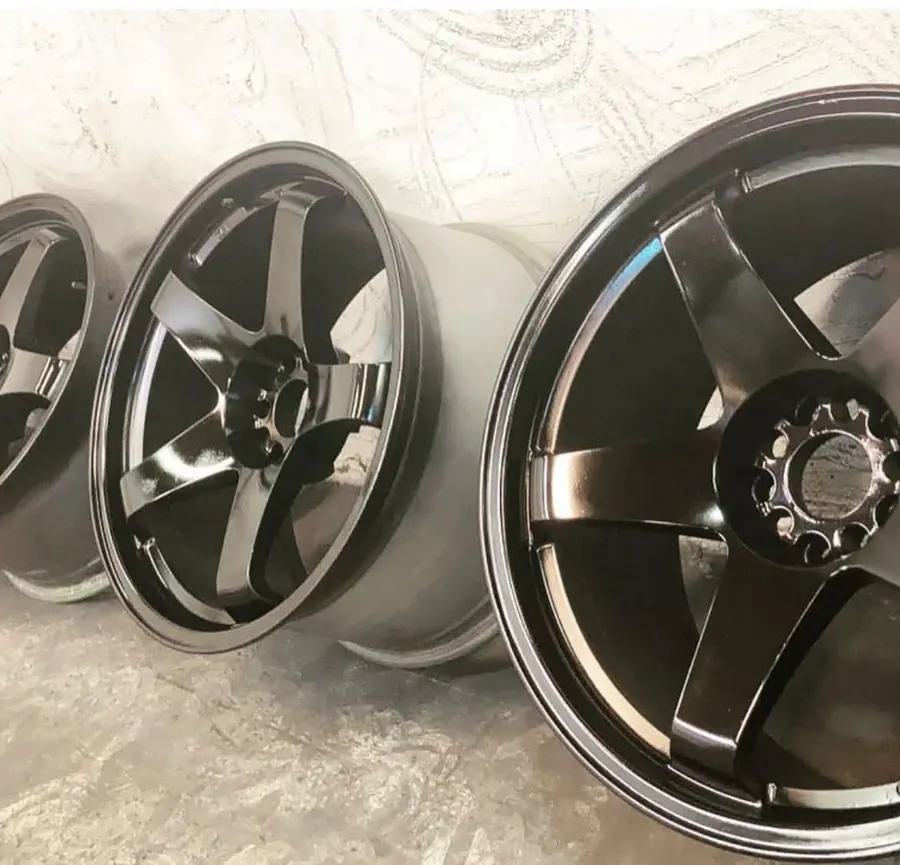
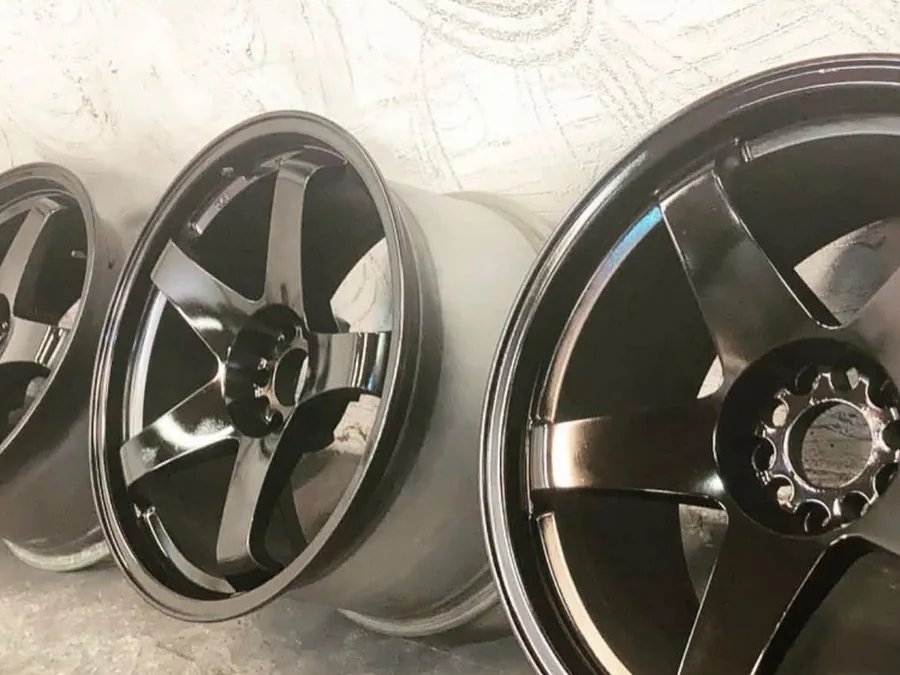
Round 2: centred nav, Citroen hero, equal gallery cards, polish

diff --git a/public/index.html b/public/index.html
@@ -16,7 +16,7 @@
 <body>
 <a class="skip" href="#main">Skip to content</a>
 <header class="site-header">
-  <div class="wrap nav">
+  <div class="wrap wide nav">
     <a class="brand" href="#top" aria-label="Autochrome home"><img class="logo" src="/img/logo-96.webp" srcset="/img/logo-96.webp 1x, /img/logo-192.webp 2x" width="44" height="44" alt=""><span class="brand-text">Autochrome</span></a>
     <nav aria-label="Main">
       <ul>
@@ -43,25 +43,24 @@
       </div>
     </div>
     <figure class="hero-compare reveal">
-      <div class="compare" style="--pos:50%;aspect-ratio:987/1645">
-        <img class="compare-after" src="/img/bmw-m-spoke-after-720.webp" srcset="/img/bmw-m-spoke-after-480.webp 480w, /img/bmw-m-spoke-after-720.webp 720w, /img/bmw-m-spoke-after-987.webp 987w" sizes="(max-width: 899px) 92vw, 440px" width="987" height="1645" fetchpriority="high" alt="The same BMW M-spoke wheel after refurbishment, rim repaired and refinished in silver">
-        <img class="compare-before" src="/img/bmw-m-spoke-before-720.webp" srcset="/img/bmw-m-spoke-before-480.webp 480w, /img/bmw-m-spoke-before-720.webp 720w, /img/bmw-m-spoke-before-987.webp 987w" sizes="(max-width: 899px) 92vw, 440px" width="987" height="1645" alt="BMW M-spoke alloy wheel before refurbishment, with kerb damage around the rim">
+      <div class="compare" style="--pos:50%">
+        <img class="compare-after" src="/img/citroen-after-45-720.webp" srcset="/img/citroen-after-45-480.webp 480w, /img/citroen-after-45-720.webp 720w, /img/citroen-after-45-987.webp 987w" sizes="(max-width: 899px) 92vw, 440px" width="987" height="1234"  fetchpriority="high" alt="The same Citroën wheel after a colour change to gloss black">
+        <img class="compare-before" src="/img/citroen-before-45-720.webp" srcset="/img/citroen-before-45-480.webp 480w, /img/citroen-before-45-720.webp 720w, /img/citroen-before-45-987.webp 987w" sizes="(max-width: 899px) 92vw, 440px" width="987" height="1234"  alt="Citroën alloy wheel before, in worn silver with brake dust">
         <span class="tag tag-before" aria-hidden="true">Before</span><span class="tag tag-after" aria-hidden="true">After</span>
         <span class="handle" aria-hidden="true"><span class="knob"></span></span>
-        <input class="compare-range" type="range" min="0" max="100" value="50" step="1" aria-label="Before and after: BMW M-spoke wheel. Move to compare.">
+        <input class="compare-range" type="range" min="0" max="100" value="50" step="1" aria-label="Before and after: Citroën wheel, silver to gloss black. Move to compare.">
       </div>
-      <figcaption>BMW M-spoke · kerb damage refurbished</figcaption>
+      <figcaption>Citroën · silver to gloss black</figcaption>
     </figure>
   </div>
 </section>
 
 <section class="trust" aria-label="Customer rating">
   <div class="wrap trust-inner">
-    <p class="trust-score"><strong>5.0</strong> <span class="stars" aria-hidden="true">★★★★★</span><span class="sr">5.0 out of 5 stars</span></p>
-    <span class="trust-sep" aria-hidden="true"></span>
-    <p><strong>44</strong> Google Reviews</p>
-    <span class="trust-sep" aria-hidden="true"></span>
-    <p>Facebook: <strong>98%</strong> recommend (59 reviews)</p>
+    <p class="trust-item"><strong>5.0</strong><span class="stars" aria-hidden="true">★★★★★</span><span class="sr">5.0 out of 5 stars</span><small>Google rating</small></p>
+    <p class="trust-item"><strong>44</strong><small>Google reviews</small></p>
+    <p class="trust-item"><strong>98%</strong><small>Recommend on Facebook</small></p>
+    <p class="trust-item"><strong>59</strong><small>Facebook reviews</small></p>
   </div>
 </section>
 
@@ -74,33 +73,42 @@
     </header>
     <div class="gallery">
       <figure class="card reveal">
-        <div class="compare" style="--pos:50%;aspect-ratio:987/1645">
-        <img class="compare-after" src="/img/citroen-after-720.webp" srcset="/img/citroen-after-480.webp 480w, /img/citroen-after-720.webp 720w, /img/citroen-after-987.webp 987w" sizes="(max-width: 699px) 92vw, 420px" width="987" height="1645" loading="lazy" decoding="async" alt="The same Citroën wheel after a colour change to gloss black">
-        <img class="compare-before" src="/img/citroen-before-720.webp" srcset="/img/citroen-before-480.webp 480w, /img/citroen-before-720.webp 720w, /img/citroen-before-987.webp 987w" sizes="(max-width: 699px) 92vw, 420px" width="987" height="1645" loading="lazy" decoding="async" alt="Citroën alloy wheel before, in worn silver with brake dust">
+        <div class="compare" style="--pos:50%">
+        <img class="compare-after" src="/img/bmw-m-spoke-after-45-720.webp" srcset="/img/bmw-m-spoke-after-45-480.webp 480w, /img/bmw-m-spoke-after-45-720.webp 720w, /img/bmw-m-spoke-after-45-987.webp 987w" sizes="(max-width: 699px) 92vw, 380px" width="987" height="1234" loading="lazy" decoding="async"  alt="The same BMW M-spoke wheel after refurbishment, rim repaired and refinished in silver">
+        <img class="compare-before" src="/img/bmw-m-spoke-before-45-720.webp" srcset="/img/bmw-m-spoke-before-45-480.webp 480w, /img/bmw-m-spoke-before-45-720.webp 720w, /img/bmw-m-spoke-before-45-987.webp 987w" sizes="(max-width: 699px) 92vw, 380px" width="987" height="1234" loading="lazy" decoding="async" alt="BMW M-spoke alloy wheel before refurbishment, with kerb damage around the rim">
         <span class="tag tag-before" aria-hidden="true">Before</span><span class="tag tag-after" aria-hidden="true">After</span>
         <span class="handle" aria-hidden="true"><span class="knob"></span></span>
-        <input class="compare-range" type="range" min="0" max="100" value="50" step="1" aria-label="Before and after: Citroën wheel, silver to gloss black">
+        <input class="compare-range" type="range" min="0" max="100" value="50" step="1" aria-label="Before and after: BMW M-spoke wheel">
       </div>
-        <figcaption><strong>Citroën · silver to gloss black</strong></figcaption>
+        <figcaption><strong>BMW M-spoke · kerb damage refurbished</strong></figcaption>
       </figure>
-      <figure class="card card-sm reveal">
-        <div class="compare" style="--pos:50%;aspect-ratio:268/447">
-        <img class="compare-after" src="/img/nissan-after-268.webp" srcset="/img/nissan-after-268.webp 268w" sizes="(max-width: 699px) 92vw, 300px" width="268" height="447" loading="lazy" decoding="async" alt="The same Nissan wheel after refinishing in black">
-        <img class="compare-before" src="/img/nissan-before-268.webp" srcset="/img/nissan-before-268.webp 268w" sizes="(max-width: 699px) 92vw, 300px" width="268" height="447" loading="lazy" decoding="async" alt="Nissan diamond-cut style alloy wheel before, black with bright machined face">
+      <figure class="card reveal">
+        <div class="compare" style="--pos:50%">
+        <img class="compare-after" src="/img/nissan-after-45-536.webp" width="536" height="670" loading="lazy" decoding="async"  alt="The same Nissan wheel after refinishing in black">
+        <img class="compare-before" src="/img/nissan-before-45-536.webp" width="536" height="670" loading="lazy" decoding="async" alt="Nissan diamond-cut style alloy wheel before, black with bright machined face">
         <span class="tag tag-before" aria-hidden="true">Before</span><span class="tag tag-after" aria-hidden="true">After</span>
         <span class="handle" aria-hidden="true"><span class="knob"></span></span>
         <input class="compare-range" type="range" min="0" max="100" value="50" step="1" aria-label="Before and after: Nissan wheel, diamond-cut look to black">
       </div>
         <figcaption><strong>Nissan · diamond-cut look to black</strong></figcaption>
       </figure>
+      <figure class="card reveal">
+        <div class="compare" style="--pos:65%">
+        <img class="compare-after" src="/img/kerb-after-45-630.webp" width="630" height="788" loading="lazy" decoding="async"  alt="The same rim after kerb damage repair, refinished smooth">
+        <img class="compare-before" src="/img/kerb-before-45-630.webp" width="630" height="788" loading="lazy" decoding="async" alt="Close-up of a kerbed alloy wheel rim before repair, with scraped and chipped edges">
+        <span class="tag tag-before" aria-hidden="true">Before</span><span class="tag tag-after" aria-hidden="true">After</span>
+        <span class="handle" aria-hidden="true"><span class="knob"></span></span>
+        <input class="compare-range" type="range" min="0" max="100" value="65" step="1" aria-label="Before and after: kerb damage repair close-up">
+      </div>
+        <figcaption><strong>Kerb damage · rim repaired</strong></figcaption>
+      </figure>
     </div>
     <div class="recent reveal">
       <h3>More recent work</h3>
       <ul class="recent-grid">
-        <li><img src="/img/recent-gloss-black-565.webp" srcset="/img/recent-gloss-black-565.webp 565w, /img/recent-gloss-black-900.webp 900w" sizes="(max-width: 699px) 92vw, 380px" width="565" height="543" loading="lazy" decoding="async" alt="Set of deep-dish five-spoke wheels finished in gloss black"></li>
-        <li><img src="/img/recent-black-set-530.webp" width="530" height="247" loading="lazy" decoding="async" alt="Set of four multi-spoke wheels refinished in gloss black"></li>
-        <li><img src="/img/recent-citroen-red-565.webp" width="565" height="273" loading="lazy" decoding="async" alt="Red Citroën C3 back on its refinished gloss black wheels"></li>
-        <li><img src="/img/recent-bmw-estate-565.webp" width="565" height="267" loading="lazy" decoding="async" alt="Grey BMW estate on its refurbished silver wheels"></li>
+        <li><img src="/img/recent-gloss-black-600.webp" srcset="/img/recent-gloss-black-600.webp 600w, /img/recent-gloss-black-900.webp 900w" sizes="(max-width: 699px) 92vw, 380px" width="900" height="675" loading="lazy" decoding="async" alt="Set of deep-dish five-spoke wheels finished in gloss black"></li>
+        <li><img src="/img/recent-bmw-wheel-600.webp" srcset="/img/recent-bmw-wheel-600.webp 600w, /img/recent-bmw-wheel-900.webp 900w" sizes="(max-width: 699px) 92vw, 380px" width="900" height="675" loading="lazy" decoding="async" alt="Refurbished silver BMW M-spoke wheel back on the car"></li>
+        <li><img src="/img/recent-bmw-estate-600.webp" srcset="/img/recent-bmw-estate-600.webp 600w, /img/recent-bmw-estate-900.webp 900w" sizes="(max-width: 699px) 92vw, 380px" width="900" height="675" loading="lazy" decoding="async" alt="Grey BMW estate on its refurbished silver wheels"></li>
       </ul>
     </div>
     <p class="center reveal"><a class="btn btn-accent" href="#quote">Get a Free Quote</a></p>
@@ -131,32 +139,33 @@
   </div>
 </section>
 
-<section class="section" id="reviews" aria-labelledby="r-title">
+<section class="section section-reviews" id="reviews" aria-labelledby="r-title">
   <div class="wrap">
-    <header class="section-head reveal">
+    <header class="section-head reviews-head reveal">
       <p class="eyebrow">Customer feedback</p>
+      <p class="big-stars" aria-hidden="true">★★★★★</p>
       <h2 id="r-title">Rated 5.0 from 44 Google reviews.</h2>
       <p>What customers commonly mention in their reviews:</p>
     </header>
     <ul class="themes">
-      <li class="reveal"><span aria-hidden="true">01</span>Quality of finish</li>
-      <li class="reveal"><span aria-hidden="true">02</span>Quick turnaround</li>
-      <li class="reveal"><span aria-hidden="true">03</span>Good value</li>
-      <li class="reveal"><span aria-hidden="true">04</span>Helpful aftercare advice</li>
+      <li class="reveal"><span class="theme-ic" aria-hidden="true"><svg viewBox="0 0 24 24" fill="none" stroke="currentColor" stroke-width="1.8" stroke-linecap="round" stroke-linejoin="round"><path d="M12 3l2.4 5.2 5.6.6-4.2 3.8 1.2 5.6L12 15.4 7 18.2l1.2-5.6L4 8.8l5.6-.6z"/></svg></span><span class="theme-t">Quality of finish</span></li>
+      <li class="reveal"><span class="theme-ic" aria-hidden="true"><svg viewBox="0 0 24 24" fill="none" stroke="currentColor" stroke-width="1.8" stroke-linecap="round" stroke-linejoin="round"><circle cx="12" cy="13" r="8"/><path d="M12 9v4l3 2M9 2h6"/></svg></span><span class="theme-t">Quick turnaround</span></li>
+      <li class="reveal"><span class="theme-ic" aria-hidden="true"><svg viewBox="0 0 24 24" fill="none" stroke="currentColor" stroke-width="1.8" stroke-linecap="round" stroke-linejoin="round"><path d="M20 12l-8 8-9-9V3h8z"/><circle cx="7.5" cy="7.5" r="1.5"/></svg></span><span class="theme-t">Good value</span></li>
+      <li class="reveal"><span class="theme-ic" aria-hidden="true"><svg viewBox="0 0 24 24" fill="none" stroke="currentColor" stroke-width="1.8" stroke-linecap="round" stroke-linejoin="round"><path d="M21 12a8 8 0 0 1-11.6 7.1L4 20l1-4.6A8 8 0 1 1 21 12z"/><path d="M8.5 12h7M8.5 9h4"/></svg></span><span class="theme-t">Helpful aftercare advice</span></li>
     </ul>
   </div>
 </section>
 
-<section class="section section-alt" id="how" aria-labelledby="h-title">
+<section class="section section-how" id="how" aria-labelledby="h-title">
   <div class="wrap">
     <header class="section-head reveal">
       <p class="eyebrow">How it works</p>
       <h2 id="h-title">Three simple steps.</h2>
     </header>
     <ol class="steps">
-      <li class="reveal"><span class="step-n">1</span><h3>Send photos</h3><p>Show the condition of your alloy wheels.</p></li>
-      <li class="reveal"><span class="step-n">2</span><h3>Get a quote</h3><p>Contact Autochrome to discuss the work.</p></li>
-      <li class="reveal"><span class="step-n">3</span><h3>Get it done</h3><p>Arrange a time that suits you.</p></li>
+      <li class="reveal"><span class="step-n" aria-hidden="true"><svg viewBox="0 0 24 24" fill="none" stroke="currentColor" stroke-width="1.8" stroke-linecap="round" stroke-linejoin="round"><rect x="3" y="6" width="18" height="14" rx="2"/><circle cx="12" cy="13" r="3.5"/><path d="M8 6l1.5-2h5L16 6"/></svg></span><p class="step-k">Step 1</p><h3>Send photos</h3><p>Show the condition of your alloy wheels.</p></li>
+      <li class="reveal"><span class="step-n" aria-hidden="true"><svg viewBox="0 0 24 24" fill="none" stroke="currentColor" stroke-width="1.8" stroke-linecap="round" stroke-linejoin="round"><path d="M21 12a8 8 0 0 1-11.6 7.1L4 20l1-4.6A8 8 0 1 1 21 12z"/></svg></span><p class="step-k">Step 2</p><h3>Get a quote</h3><p>Contact Autochrome to discuss the work.</p></li>
+      <li class="reveal"><span class="step-n" aria-hidden="true"><svg viewBox="0 0 24 24" fill="none" stroke="currentColor" stroke-width="1.8" stroke-linecap="round" stroke-linejoin="round"><circle cx="12" cy="12" r="8.5"/><circle cx="12" cy="12" r="2.5"/><path d="M12 3.5v6M19.5 9.5l-5.2 1.7M16.8 19l-3.3-4.7M7.2 19l3.3-4.7M4.5 9.5l5.2 1.7"/></svg></span><p class="step-k">Step 3</p><h3>Get it done</h3><p>Arrange a time that suits you.</p></li>
     </ol>
   </div>
 </section>

diff --git a/public/styles.css b/public/styles.css
@@ -157,3 +157,79 @@ h3{font-size:1.6rem}
 @media (max-width:899px){.hero{padding:1.2rem 0 2.4rem}.hero-grid{gap:1.4rem}.hero-compare{max-width:min(100%,420px)}}
 .gallery{align-items:start}
 @media (max-width:899px){.hero .btn-ghost{display:none}.hero .lede{margin-bottom:1.1rem}.hero h1{margin-bottom:.7rem}}
+/* ===== Round 2 ===== */
+.wide{width:min(1360px,100% - 3rem)}
+.btn-accent{border:0;background:linear-gradient(180deg,#5aacff 0%,#3d9bff 55%,#2f8ff5 100%);background-origin:border-box;box-shadow:0 6px 18px -8px rgba(61,155,255,.6)}
+.btn-accent:hover{background:linear-gradient(180deg,#6cb5ff 0%,#4aa3ff 55%,#3896fa 100%)}
+.btn{background-origin:border-box;background-clip:border-box}
+.mb-quote{border:0}
+@media (min-width:861px){
+ .nav{display:grid;grid-template-columns:1fr auto 1fr;height:70px}
+ .nav nav ul{margin:0;gap:2.2rem}
+ .nav nav a{font-size:.95rem;position:relative;padding:.4rem 0}
+ .nav nav a::after{content:"";position:absolute;left:0;right:0;bottom:-2px;height:2px;border-radius:2px;background:var(--accent);transform:scaleX(0);transition:transform .25s}
+ .nav nav a:hover::after{transform:scaleX(1)}
+ .nav-cta{justify-self:end}
+}
+.compare{aspect-ratio:4/5}
+@media (min-width:900px){
+ .hero{padding:2rem 0 2.6rem}
+ .hero-grid{grid-template-columns:1.1fr 1fr;gap:4rem;align-items:center}
+ .hero-compare{max-width:min(440px,calc((100svh - 200px)*.8));justify-self:end}
+ .hero h1{font-size:clamp(3.6rem,5.6vw,5.8rem)}
+}
+/* trust */
+.trust-inner{display:grid;grid-template-columns:repeat(4,1fr);gap:0;padding:1.6rem 0}
+.trust-item{display:flex;flex-direction:column;align-items:center;gap:.15rem;padding:.2rem 1rem;border-left:1px solid var(--line)}
+.trust-item:first-child{border-left:0}
+.trust .trust-item strong{font-size:clamp(2rem,3.4vw,2.9rem);line-height:1;margin:0;letter-spacing:.02em}
+.trust-item small{font-size:.86rem;color:var(--muted);letter-spacing:.06em;text-transform:uppercase}
+.trust-item .stars{font-size:1.05rem;letter-spacing:.18em;line-height:1.2}
+@media (max-width:560px){.trust-inner{grid-template-columns:1fr 1fr;row-gap:1.1rem;padding:1.2rem 0}.trust-item:nth-child(3){border-left:0}.trust .trust-item strong{font-size:1.9rem}.trust-item small{font-size:.72rem;text-align:center}}
+/* gallery: equal cards */
+.gallery{grid-template-columns:repeat(auto-fit,minmax(min(100%,280px),1fr));justify-content:stretch;align-items:stretch;max-width:1180px;margin-inline:auto}
+@media (min-width:700px){.gallery{grid-template-columns:repeat(3,1fr)}}
+@media (min-width:700px) and (max-width:899px){.gallery{grid-template-columns:repeat(2,1fr)}}
+.card .compare{width:100%;max-width:none;margin:0}
+.card{transition:border-color .25s,transform .25s}
+.card:hover{border-color:#3a5578}
+.recent-grid{grid-template-columns:repeat(auto-fit,minmax(min(100%,260px),1fr))}
+.recent-grid li{aspect-ratio:4/3;box-shadow:inset 0 0 0 1px var(--line)}
+.recent-grid img{transition:transform .5s ease}
+.recent-grid li:hover img{transform:scale(1.04)}
+/* reviews */
+.section-reviews{background:radial-gradient(70% 90% at 50% 0%,#12233a 0%,#0e141d 45%,var(--bg) 100%);text-align:center}
+.reviews-head{margin-inline:auto}
+.big-stars{font-size:2rem;letter-spacing:.25em;color:var(--accent);margin:0 0 .6rem!important;text-shadow:0 0 24px rgba(61,155,255,.45)}
+.themes{grid-template-columns:repeat(auto-fit,minmax(min(100%,230px),1fr))}
+.themes li{display:flex;flex-direction:column;align-items:center;gap:.9rem;padding:1.8rem 1.2rem;background:linear-gradient(180deg,rgba(61,155,255,.08) 0%,rgba(27,30,34,.9) 60%);border-color:#24344a;transition:transform .25s,border-color .25s}
+.themes li:hover{transform:translateY(-3px);border-color:#3d9bff}
+.theme-ic{display:grid;place-items:center;width:56px;height:56px;border-radius:16px;background:rgba(61,155,255,.12);color:var(--accent);box-shadow:inset 0 0 0 1px rgba(61,155,255,.35)}
+.theme-ic svg{width:28px;height:28px}
+/* how it works: timeline */
+.section-how{background:var(--bg2)}
+.steps{position:relative;gap:2rem}
+.steps li{background:none;border:0;padding:0 .5rem;text-align:center}
+.step-n{position:relative;z-index:1;width:76px;height:76px;margin:0 auto 1.1rem;background:radial-gradient(circle at 50% 35%,#1d3350 0%,#0f1826 75%);color:var(--accent);box-shadow:0 0 0 2px #3d9bff,0 0 0 8px rgba(61,155,255,.12),0 12px 30px -10px rgba(61,155,255,.6)}
+.step-n svg{width:32px;height:32px}
+.step-k{font-size:.75rem!important;font-weight:600;letter-spacing:.16em;text-transform:uppercase;color:var(--accent)!important;margin:0 0 .3rem!important}
+@media (min-width:760px){
+ .steps{grid-template-columns:repeat(3,1fr)}
+ .steps::before{content:"";position:absolute;top:38px;left:16.6%;right:16.6%;height:2px;background:linear-gradient(90deg,rgba(61,155,255,.15),#3d9bff 50%,rgba(61,155,255,.15))}
+}
+@media (max-width:759px){
+ .steps li{display:grid;grid-template-columns:64px 1fr;column-gap:1rem;text-align:left;position:relative}
+ .steps li .step-n{grid-row:span 3;width:58px;height:58px;margin:0}
+ .steps li .step-n svg{width:26px;height:26px}
+ .steps li:not(:last-child)::after{content:"";position:absolute;left:29px;top:66px;bottom:-1.6rem;width:2px;background:linear-gradient(180deg,#3d9bff,rgba(61,155,255,.15))}
+ .steps h3{margin:0 0 .2rem}
+}
+.section-how .section-head{margin-inline:auto;text-align:center}
+@media (prefers-reduced-motion:reduce){.themes li,.recent-grid img,.card{transition:none}}
+.section-head p.big-stars{color:var(--accent)}
+.themes span.theme-t{display:block;font:700 1.5rem/1.1 var(--display);color:var(--text);letter-spacing:.03em;margin:0;text-transform:uppercase}
+.themes span.theme-ic{margin:0;font:inherit;letter-spacing:0}
+@media (min-width:900px){.hero-grid{align-items:start}.hero-copy{padding-top:clamp(1.5rem,6svh,4rem)}}
+@media (min-width:900px){.hero h1{font-size:clamp(3.4rem,4.4vw,5.2rem)}}
+.themes span.theme-ic{display:grid;place-items:center}
+@media (max-width:559px){.themes{grid-template-columns:1fr 1fr;gap:.7rem}.themes li{padding:1.2rem .7rem;gap:.7rem}.themes span.theme-t{font-size:1.15rem}.theme-ic{width:46px;height:46px}}

diff --git a/public/credits.html b/public/credits.html
@@ -1,8 +1,8 @@
-<!doctype html><html lang="en-GB"><head><meta charset="utf-8"><meta name="viewport" content="width=device-width, initial-scale=1"><meta name="robots" content="noindex, nofollow"><link rel="icon" href="/favicon.png" type="image/png"><link rel="stylesheet" href="/styles.css"><title>Credits | Autochrome concept</title><meta name="description" content="Credits for fonts and assets used in this Autochrome website concept."></head><body style="padding-bottom:0"><header class="site-header"><div class="wrap nav"><a class="brand" href="/" aria-label="Autochrome home"><img class="logo" src="/img/logo-96.webp" width="44" height="44" alt=""><span class="brand-text">Autochrome</span></a><a class="btn btn-sm btn-accent nav-cta" href="/#quote">Free Quote</a></div></header>
+<!doctype html><html lang="en-GB"><head><meta charset="utf-8"><meta name="viewport" content="width=device-width, initial-scale=1"><meta name="robots" content="noindex, nofollow"><link rel="icon" href="/favicon.png" type="image/png"><link rel="stylesheet" href="/styles.css"><title>Credits | Autochrome concept</title><meta name="description" content="Credits for fonts and assets used in this Autochrome website concept."></head><body style="padding-bottom:0"><header class="site-header"><div class="wrap wide nav"><a class="brand" href="/" aria-label="Autochrome home"><img class="logo" src="/img/logo-96.webp" width="44" height="44" alt=""><span class="brand-text">Autochrome</span></a><a class="btn btn-sm btn-accent nav-cta" href="/#quote">Free Quote</a></div></header>
 <main class="page"><div class="wrap narrow"><h1>Credits</h1><ul>
 <li><strong>Barlow Condensed</strong> by Jeremy Tribby, SIL Open Font License 1.1, self-hosted via Fontsource.</li>
 <li><strong>Inter</strong> by Rasmus Andersson, SIL Open Font License 1.1, self-hosted via Fontsource.</li>
-<li>Photos and logo: Autochrome Alloys UK (Facebook), used for this private concept.</li>
+<li>Photos and logo: Autochrome Alloys UK (Facebook), used for this concept preview.</li>
 <li>Icons are simple original SVGs.</li>
 <li>Website concept, design and build: JA Digital. This is an unofficial concept and has not been commissioned or endorsed by Autochrome.</li>
 </ul><p><a class="link-arrow" href="/">Back to home</a></p></div></main><footer class="site-footer"><div class="wrap footer-inner"><p class="disclaimer">Unofficial concept by JA Digital — not the official Autochrome website.</p></div></footer></body></html>

diff --git a/README.md b/README.md
@@ -1,8 +1,8 @@
 # Autochrome concept
 
-Private speculative website concept preview for Autochrome (mobile alloy wheel refurbishment, Plymouth). Unofficial: created independently by JA Digital, not commissioned or endorsed by Autochrome. The site is static files only, served by a Cloudflare Worker. There is no Worker script.
+Speculative website concept preview for Autochrome (mobile alloy wheel refurbishment, Plymouth). Unofficial: created independently by JA Digital, not commissioned or endorsed by Autochrome. The site is static files only, served by a Cloudflare Worker. There is no Worker script.
 
-The published address is a `workers.dev` URL. Keep that URL behind [Cloudflare Access](https://developers.cloudflare.com/workers/configuration/cloudflare-access/). Access is turned on for the Worker in the Cloudflare dashboard. It is not configured in this repository. `workers.dev` and preview URLs are reachable on the internet until Access is enabled, so enable it before sharing the address.
+The published address is a public `workers.dev` URL with no Cloudflare Access login (JA Digital concept previews are public by policy). Privacy comes from noindex and robots rules, no analytics and no data collection, not from a login.
 
 Pages are marked `noindex, nofollow` in HTML, `public/_headers` sends `X-Robots-Tag: noindex, nofollow, noarchive`, and `public/robots.txt` disallows all crawlers. `public/sitemap.xml` is for future use only and must not be submitted while this is a concept.
 
@@ -16,22 +16,24 @@ The quote form is a demonstration only: no `action`, submit is prevented, no fet
 
 ## Photos and before/after sliders
 
-All photos and the logo come from the public Autochrome Alloys UK Facebook page (originals kept outside the repo in `/workspace/autochrome-fb/`). They are for this private concept only and need the owner's permission before any launch.
+All photos and the logo come from the public Autochrome Alloys UK Facebook page (originals kept outside the repo in `/workspace/autochrome-fb/`). They are for this concept preview only and need the owner's permission before any launch.
 
 Each slider uses two halves cropped from one of Autochrome's own combined before/after images, split at the exact white gutter with borders trimmed, so both halves share one framing and aspect ratio:
 
-- Hero: `bmw-m-spoke-before/after-{480,720,987}.webp` (987x1645, 3:5), from the BMW M-spoke post.
-- Gallery: `citroen-before/after-{480,720,987}.webp` (3:5), and `nissan-before/after-268.webp` (268x447, low-res source, so shown smaller).
-- "More recent work": `recent-*.webp`, single finished shots.
+All sliders are cropped to 4:5 (the `.compare` box sets `aspect-ratio:4/5`) so every card is the same size:
+
+- Hero: `citroen-before/after-45-{480,720,987}.webp` (987x1234), Citroën silver to gloss black.
+- Gallery: `bmw-m-spoke-*-45-{480,720,987}.webp`; `nissan-*-45-536.webp` (from a 268px-wide source, Lanczos 2x plus mild sharpening, no AI upscaling); `kerb-*-45-630.webp` (the large before/after pair in the "kerbed your alloy" graphic, starts at 65% so the damage shows).
+- "More recent work": `recent-{gloss-black,bmw-wheel,bmw-estate}-{600,900}.webp`, 4:3 crops with collage borders and white strips removed; the BMW shots come from the 2048px original.
 - Logo: `logo-{96,192,480}.webp`, the supplied logo resized only, shown in a rounded square frame. `favicon.png` is the same logo at 64px.
 
-To add a pair: crop both halves to the same size from the same job, export WebP at responsive widths, then copy a `figure.card` in `index.html`, set `aspect-ratio` and `width`/`height` to the crop size, and update `srcset`, `alt`, the slider `aria-label` and the caption. Skip pairs that are misaligned or too low-res (the BMW silver-to-black pair in the "custom colours" graphic was skipped for that reason).
+To add a pair: crop both halves to the same size from the same job, export WebP at responsive widths, then copy a `figure.card` in `index.html`, crop to 4:5, set `width`/`height` to the crop size, and update `srcset`, `alt`, the slider `aria-label` and the caption. Skip pairs that are misaligned or too low-res (the BMW silver-to-black pair in the "custom colours" graphic was skipped for that reason).
 
 See `PROVISIONAL.md` for content still waiting on owner confirmation.
 
 ## Deploy
 
-When this repository is connected to [Workers Builds](https://developers.cloudflare.com/workers/ci-cd/builds/), merging to `main` deploys to the `workers.dev` preview. The production-branch deploy command is `npx wrangler deploy` (the `deploy` script). `workers_dev` and `preview_urls` are both enabled. Preview URLs should stay behind the same Access policy.
+When this repository is connected to [Workers Builds](https://developers.cloudflare.com/workers/ci-cd/builds/), merging to `main` deploys to the `workers.dev` preview. The production-branch deploy command is `npx wrangler deploy` (the `deploy` script). `workers_dev` and `preview_urls` are both enabled. Preview URLs are public too and carry the same noindex headers.
 
 Local commands, from a machine that is already logged in to the right Cloudflare account:
 
